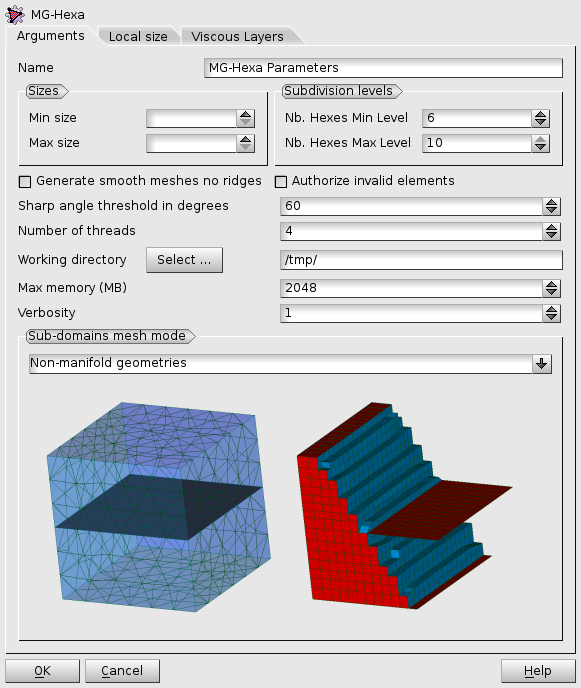
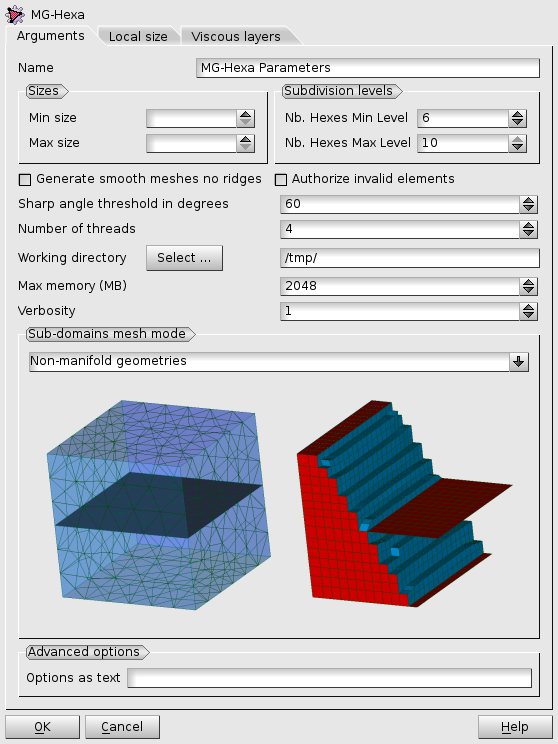
0023103: [CEA 1487] To add parameters to the command line

diff --git a/src/GUI/HexoticPLUGIN_msg_ja.ts b/src/GUI/HexoticPLUGIN_msg_ja.ts
@@ -92,6 +92,14 @@
       <translation>ジオメトリ「マニホールド」</translation>
     </message>
     <message>
+        <source>Hexotic_ADVANCED</source>
+        <translation type="unfinished">Advanced options</translation>
+    </message>
+    <message>
+        <source>Hexotic_TEXT_OPTIONS</source>
+        <translation type="unfinished">Option as text</translation>
+    </message>
+    <message>
       <source>Hexotic_ADD</source>
       <translation>追加</translation>
     </message>

diff --git a/src/GUI/HexoticPLUGIN_msg_fr.ts b/src/GUI/HexoticPLUGIN_msg_fr.ts
@@ -96,6 +96,14 @@
         <translation>Géométries &quot;non-manifold&quot;</translation>
     </message>
     <message>
+        <source>Hexotic_ADVANCED</source>
+        <translation>Options avancées</translation>
+    </message>
+    <message>
+        <source>Hexotic_TEXT_OPTIONS</source>
+        <translation>Options comme texte</translation>
+    </message>
+    <message>
         <source>Hexotic_ADD</source>
         <translation>Ajouter</translation>
     </message>

diff --git a/src/GUI/HexoticPLUGIN_msg_en.ts b/src/GUI/HexoticPLUGIN_msg_en.ts
@@ -92,6 +92,14 @@
         <translation>Non-manifold geometries</translation>
     </message>
     <message>
+        <source>Hexotic_ADVANCED</source>
+        <translation>Advanced options</translation>
+    </message>
+    <message>
+        <source>Hexotic_TEXT_OPTIONS</source>
+        <translation>Options as text</translation>
+    </message>
+    <message>
         <source>Hexotic_ADD</source>
         <translation>Add</translation>
     </message>

diff --git a/src/HexoticPlugin/HexoticPLUGINBuilder.py b/src/HexoticPlugin/HexoticPLUGINBuilder.py
@@ -41,6 +41,10 @@ except ImportError:
 MG_Hexa = "MG-Hexa"
 Hexotic = MG_Hexa
 
+## Direction of viscous layers for MG_Hexa algorithm
+Inward = True
+Outward = False
+
 #----------------------------
 # Algorithms
 #----------------------------
@@ -59,11 +63,6 @@ class Hexotic_Algorithm(Mesh_Algorithm):
     ## doc string of the method in smeshBuilder.Mesh class
     #  @internal
     docHelper  = "Creates hexahedron 3D algorithm for volumes"
-
-    ## Direction of viscous layers
-    #  @internal
-    Inward = True
-    Outward = False
 
     ## Private constructor.
     #  @param mesh parent mesh object algorithm is assigned to

diff --git a/doc/salome/examples/hexoticdemo_vl.py b/doc/salome/examples/hexoticdemo_vl.py
@@ -42,7 +42,7 @@ MEFISTO_2D = Mesh_mghexa_vl.Triangle(algo=smeshBuilder.MEFISTO)
 
 MG_Hexa = Mesh_mghexa_vl.Hexahedron(algo=smeshBuilder.MG_Hexa)
 MG_Hexa_Parameters = MG_Hexa.Parameters()
-MG_Hexa.SetViscousLayers(5,5,3,MG_Hexa.Inward,[13,23])
+MG_Hexa.SetViscousLayers(5,5,3,smeshBuilder.Inward,[13,23])
 MG_Hexa_Parameters.SetMinSize( 2 )
 MG_Hexa_Parameters.SetMaxSize( 4 )
 MG_Hexa_Parameters.SetHexesMinLevel( 2 )

diff --git a/src/GUI/HexoticPluginGUI_HypothesisCreator.h b/src/GUI/HexoticPluginGUI_HypothesisCreator.h
@@ -55,6 +55,7 @@ typedef struct
   int      myHexoticVerbosity;
   int      myHexoticMaxMemory;
   int      myHexoticSdMode;
+  QString  myTextOptions;
   HexoticPlugin_Hypothesis::THexoticSizeMaps mySizeMaps;
   int      myNbLayers;
   double   myFirstLayerSize;
